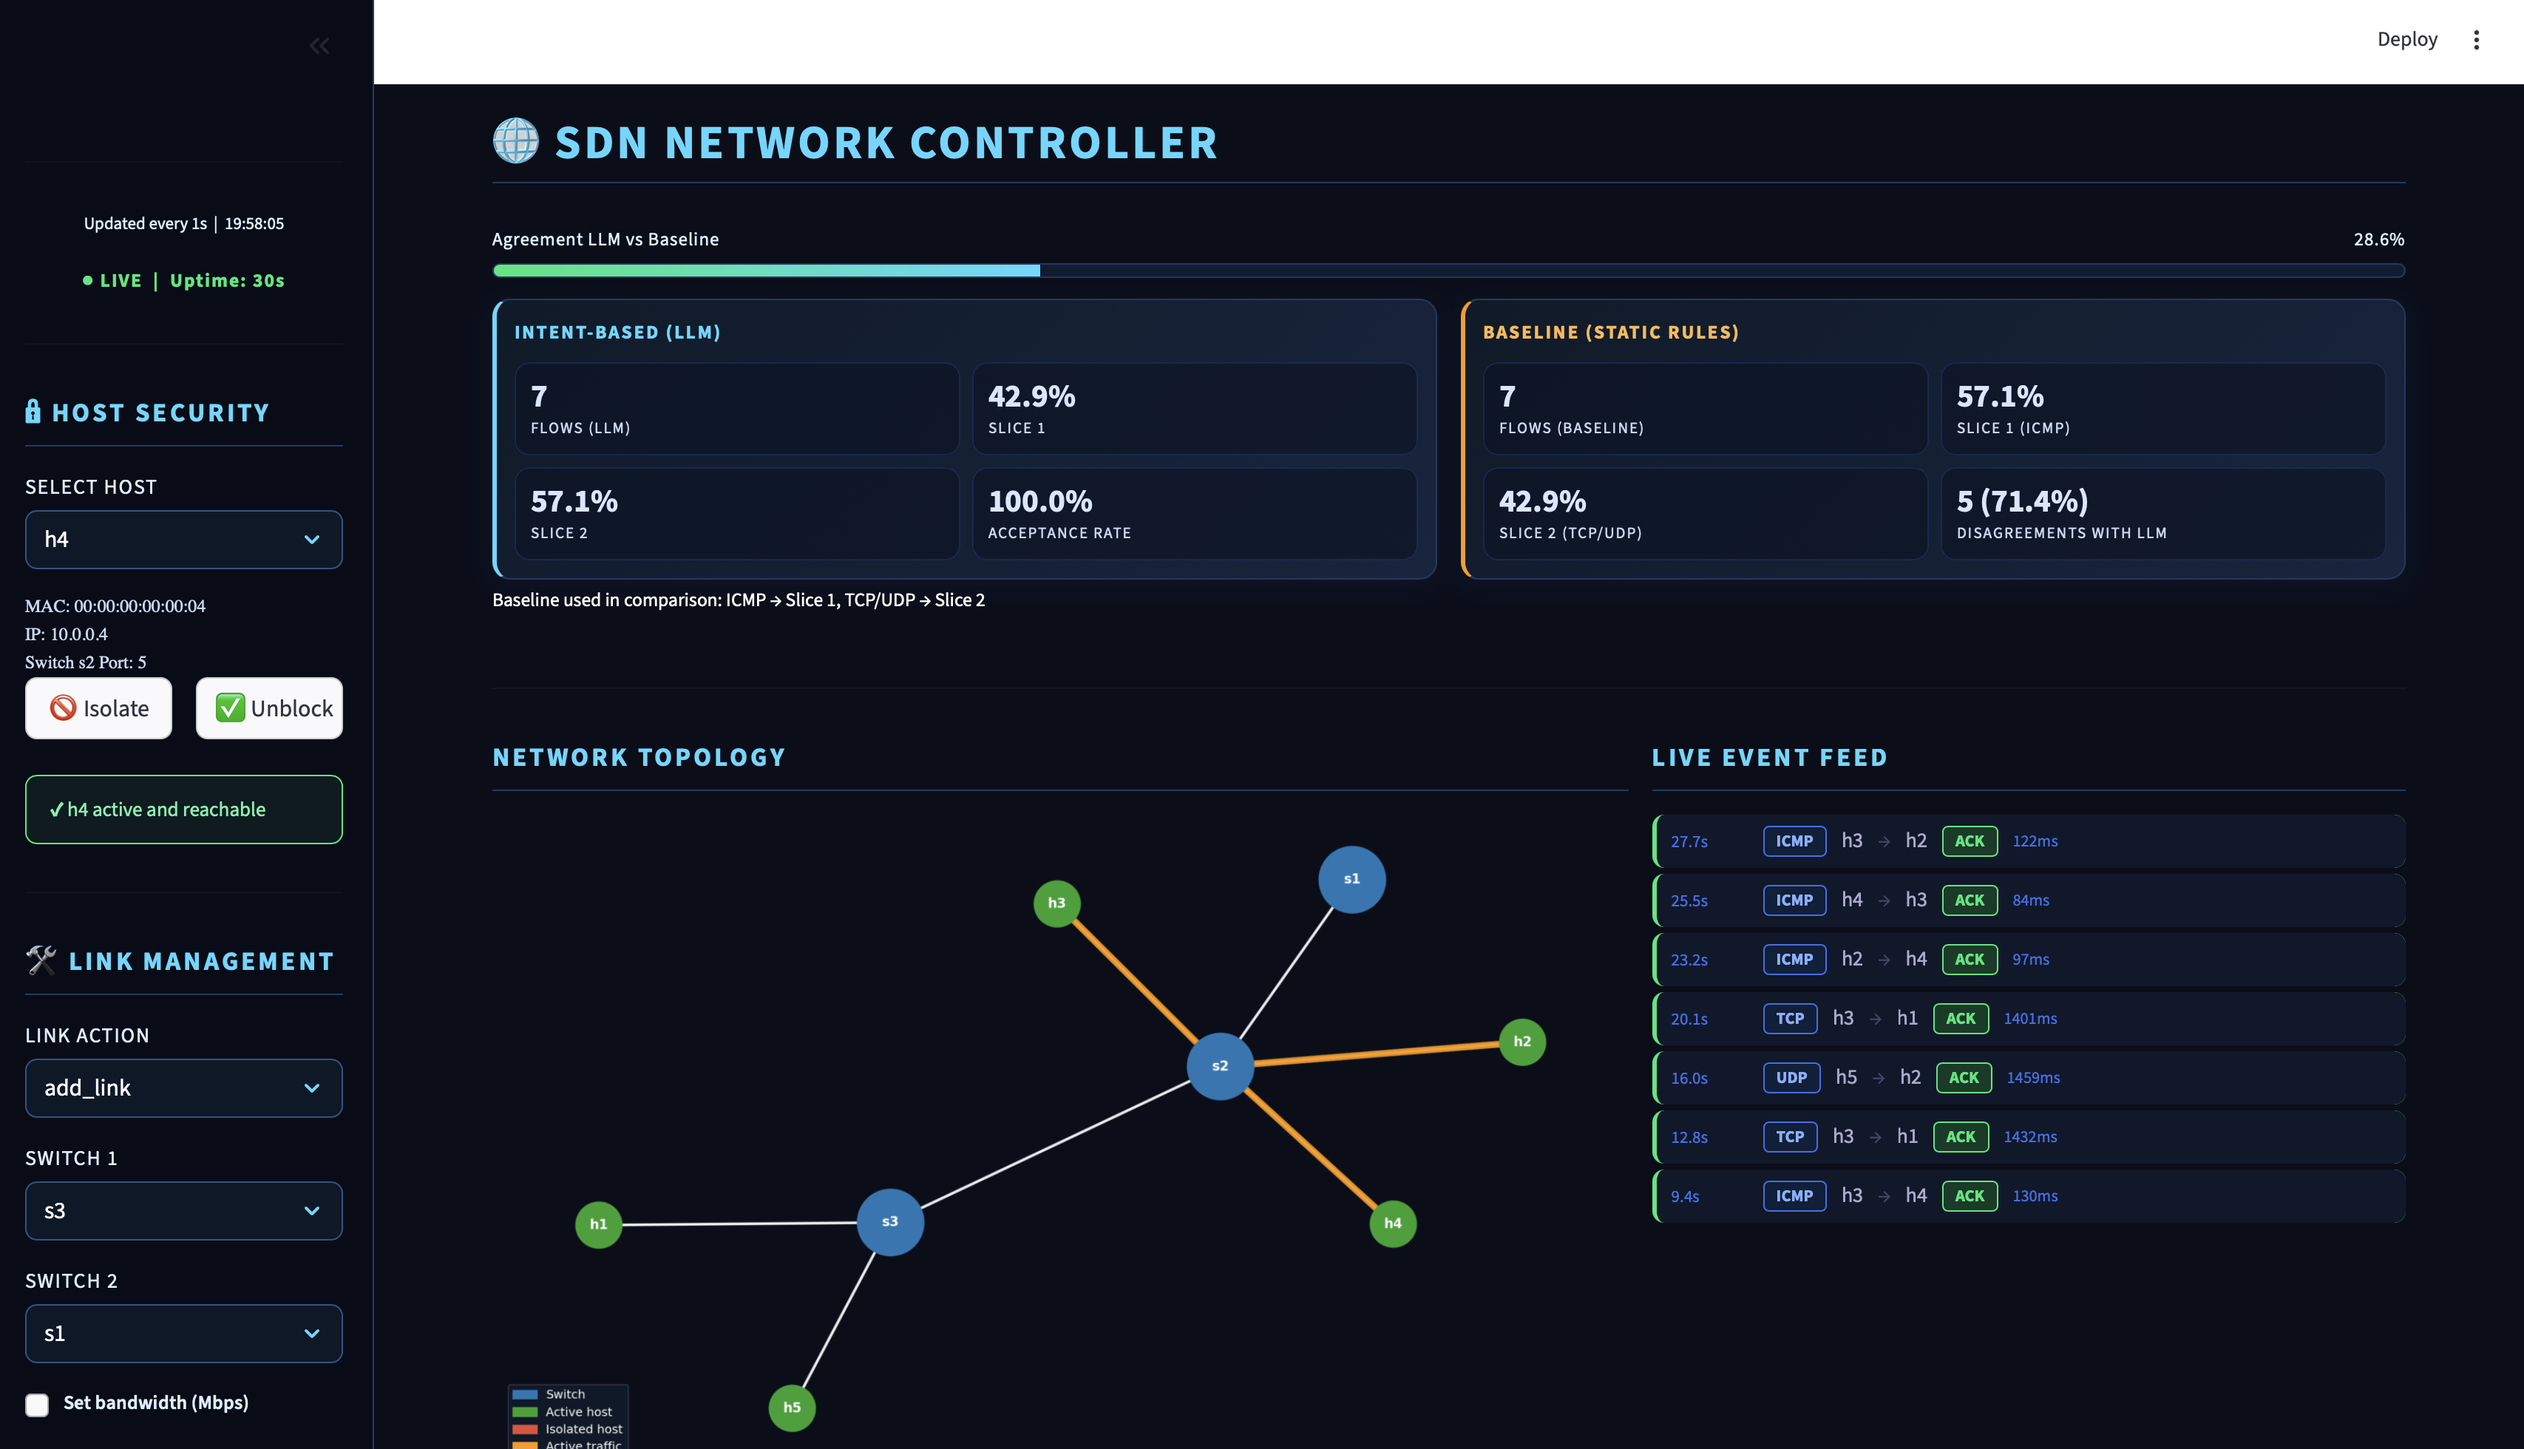
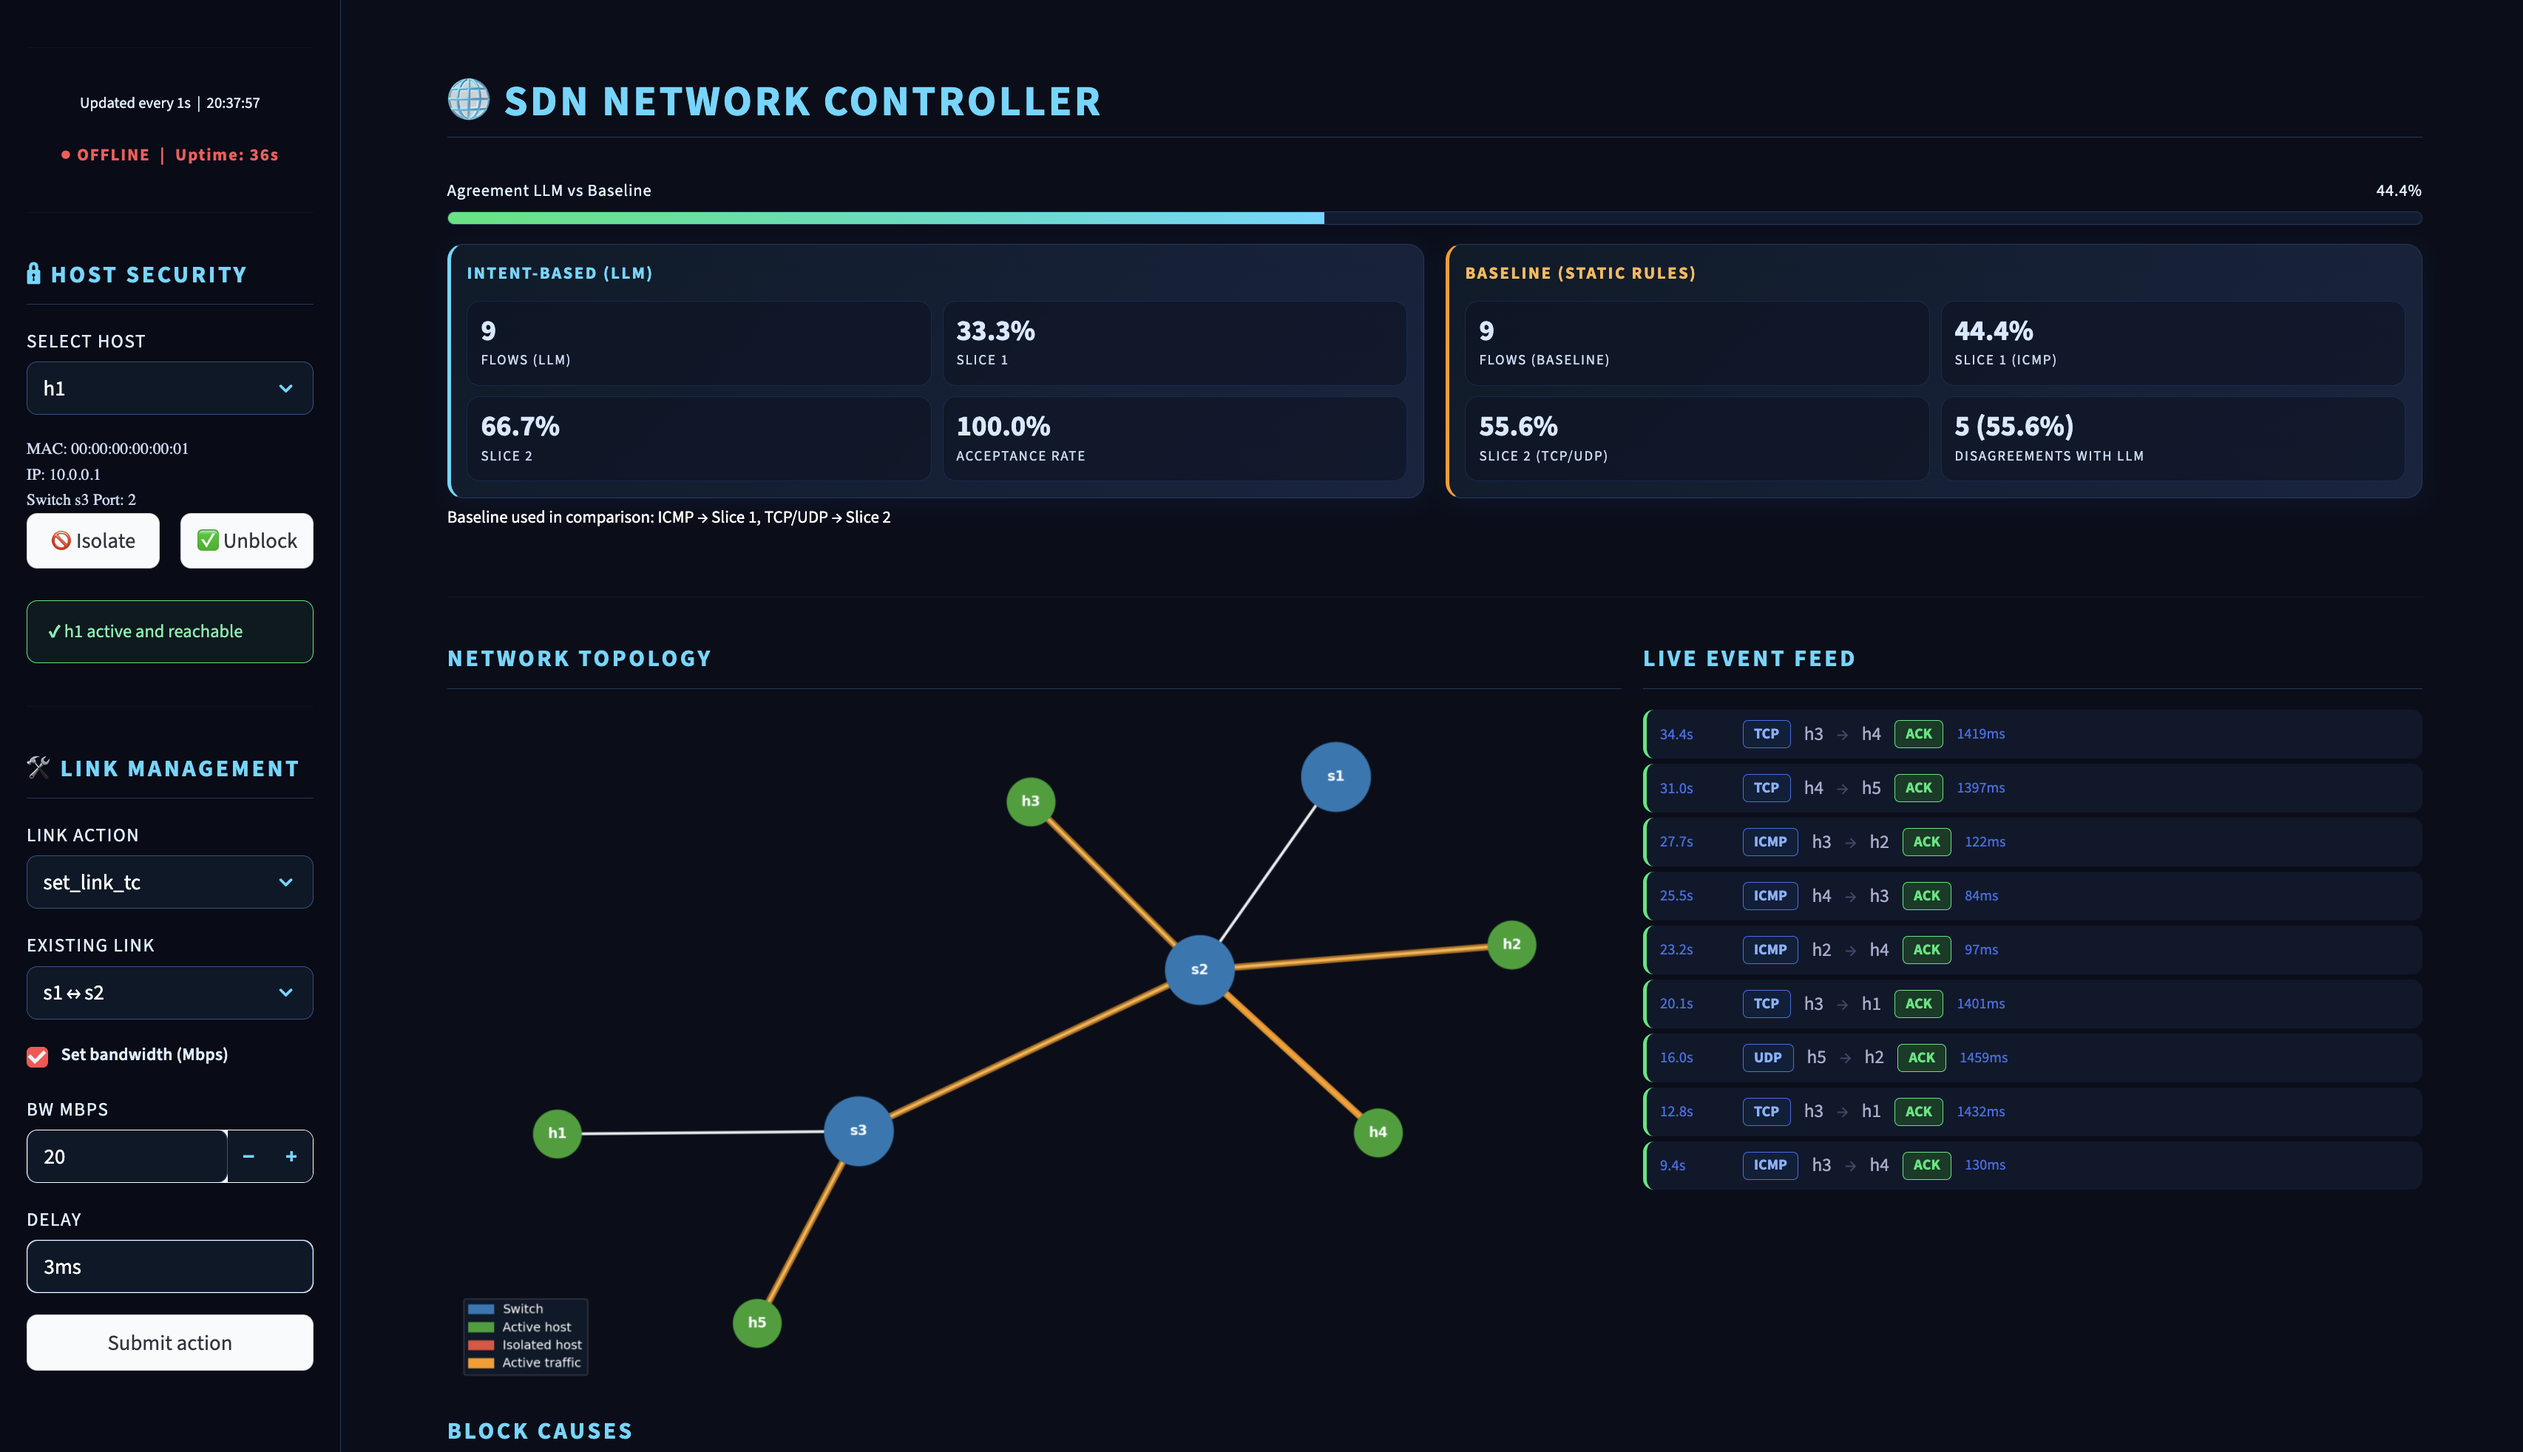
fix ui dashboard and docs

diff --git a/gui/Dashboard.py b/gui/Dashboard.py
@@ -22,6 +22,16 @@ class Dashboard:
         st.markdown("""
         <style>
           .stApp { background: #0a0e1a; }
+          header[data-testid="stHeader"] { display: none; }
+          .stAppViewBlockContainer { padding-top: 0.5rem !important; }
+          section[data-testid="stSidebar"],
+          section[data-testid="stSidebar"] > div,
+          section[data-testid="stSidebar"] > div > div,
+          [data-testid="stSidebarContent"],
+          [data-testid="stSidebarUserContent"] { padding-top: 0.5rem !important; margin-top: 0 !important; }
+          [data-testid="stSidebarNav"] { display: none !important; }
+          [data-testid="stSidebarCollapseButton"] { display: none !important; }
+          .block-container { padding-top: 0.5rem !important; }
                     .compare-btn-wrap { margin: 2px 0 12px 0; }
                     .compare-btn-wrap button {
                         min-height: 52px;
@@ -277,11 +287,19 @@ class Dashboard:
         }
         
         .host-table tr.err:hover {
-        
+
             background-color: rgba(232,61,61,.08);
-        
+
         }
         </style>
+        <script>
+        (function keepSidebarOpen() {
+            var doc = window.parent.document;
+            var btn = doc.querySelector('[data-testid="stSidebarCollapsedControl"] button');
+            if (btn) { btn.click(); return; }
+            setTimeout(keepSidebarOpen, 300);
+        })();
+        </script>
         """, unsafe_allow_html=True)
 
     def __init__(self):
@@ -1002,7 +1020,7 @@ class Dashboard:
 
             active_pkts = [(e["src"], e["dst"]) for e in events[:3]] if events else []
             fig = self.vis.draw_topology(G, st.session_state.blocked_hosts, None, active_pkts)
-            st.pyplot(fig, width='stretch')
+            st.pyplot(fig, use_container_width=True)
             plt.close(fig)
 
         with col_events:
